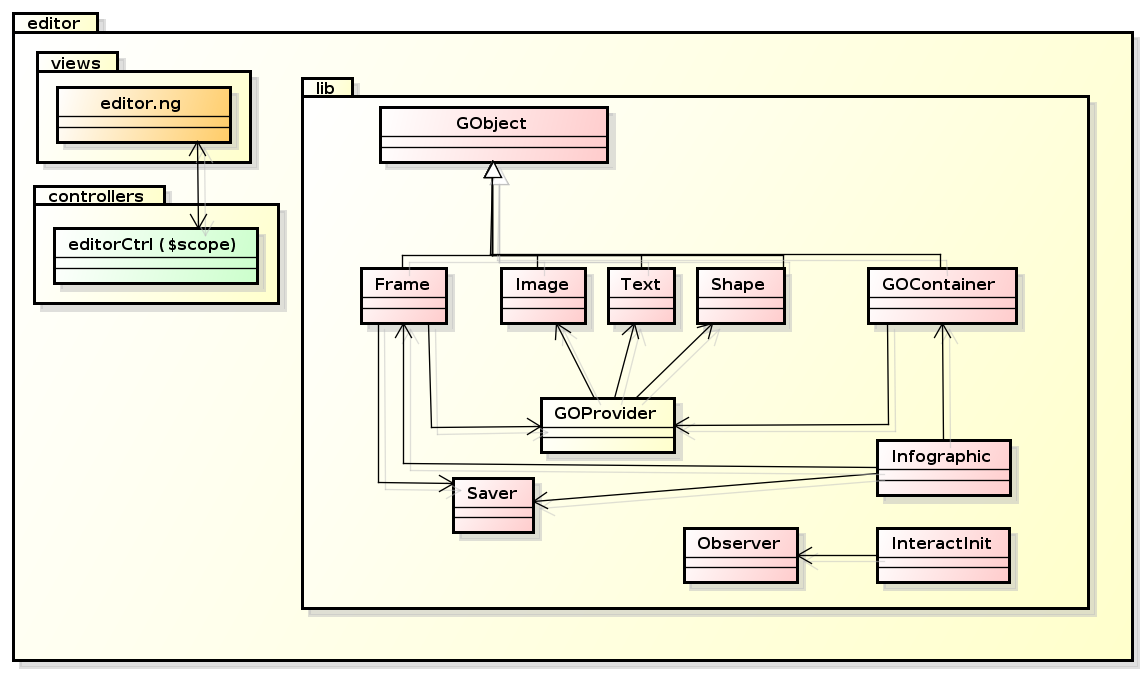
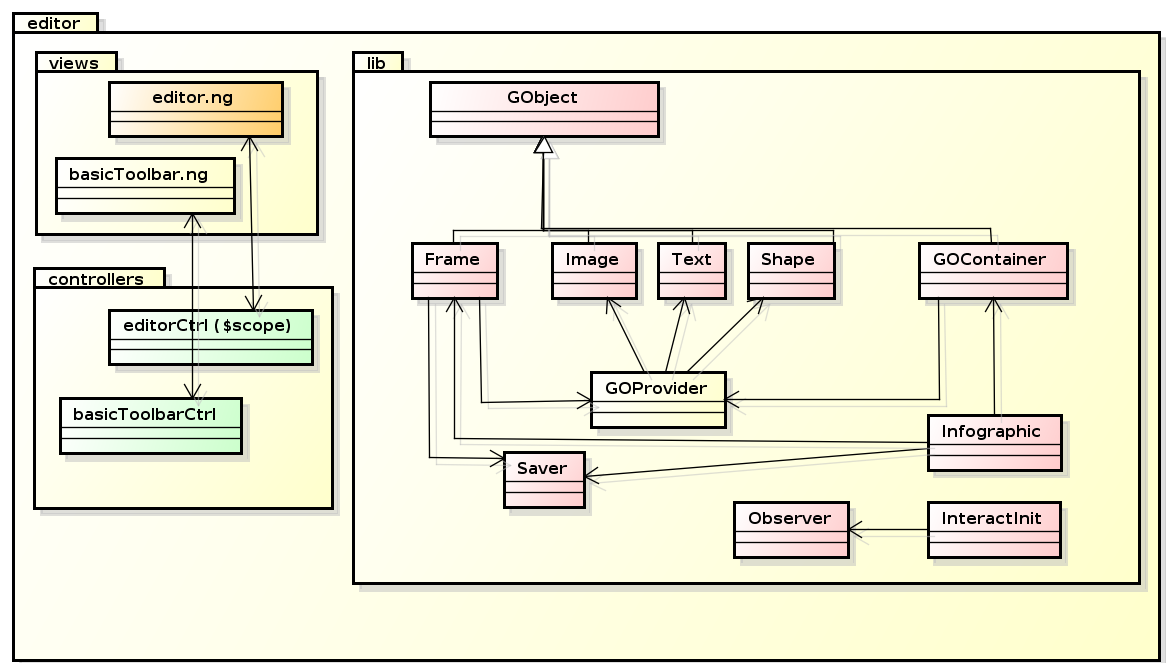
modificate immagini package presentation editor trailsEditor

diff --git a/Specifica Tecnica/documents/descr_componenti.tex b/Specifica Tecnica/documents/descr_componenti.tex
@@ -572,13 +572,6 @@ section{Descrizione dei singoli componenti}
   \item[] \textbf{Package:} Premi/client/trailsEditor/views
   \item[] \textbf{Descrizione:}  template della parte di pagina per la rimozione di un checkpoint in un trail$_G$
 \end{itemize}
-\subsubsection{Premi/client/trailsEditor/controllers/basicToolbarCtrl}
-\begin{itemize}
-  \item[] \textbf{Nome:} basicToolbarCtrl
-  \item[] \textbf{Tipo:} controller
-  \item[] \textbf{Package:} Premi/client/trailsEditor/controllers
-  \item[] \textbf{Descrizione:} controller di premi/client/trailsEditor/views/basicToolbar.ng   
-\end{itemize}
 \subsubsection{Premi/client/trailsEditor/controllers/editTrailCtrl}
 \begin{itemize}
   \item[] \textbf{Nome:} editTrailCtrl
